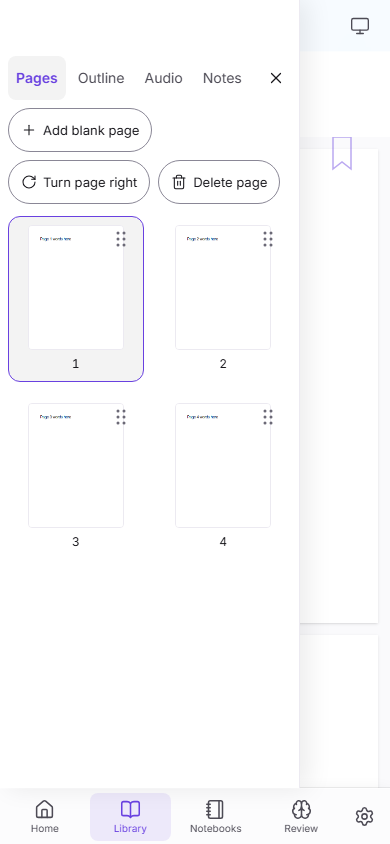
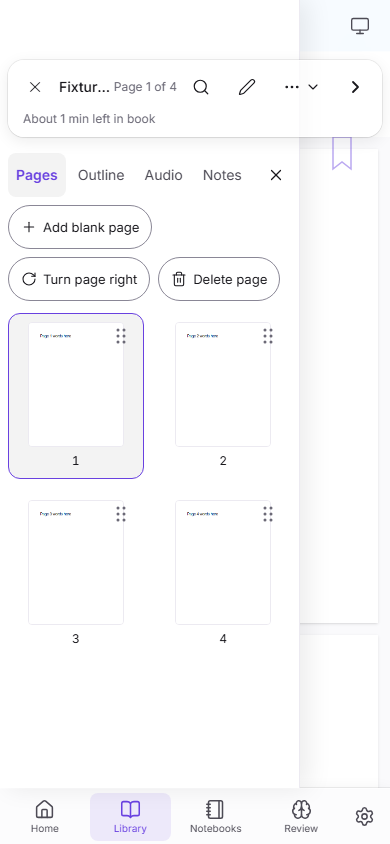
reader v2: on phone and iPad portrait the left panel now starts below the reader bar (--rv2-bar-bottom), replacing the hide-the-bar fix that broke Exit reading (RD-B02/B03); nothing covered or clipped at 390 and 820, e2e added; flag off unchanged

diff --git a/src/reader/v2/ReaderBars.tsx b/src/reader/v2/ReaderBars.tsx
@@ -95,8 +95,9 @@ export default function ReaderBars({
   }, [measure, rootRef])
 
   // A narrow screen lays the left panel (Pages / Outline / Audio tabs) over the
-  // reader's top. The bar steps aside while it is open, so it never covers the
-  // tab row or clips the first chip; it slides back when the panel closes.
+  // reader's top. The panel starts below the bar (it reads --rv2-bar-bottom),
+  // so the bar never covers its tab row or clips its first chip, and the
+  // ✕ Exit reading stays in reach. Without the bar the variable is gone.
   useEffect(() => {
     const check = () => {
       const panel = document.querySelector('[data-testid="left-panel"]')
@@ -126,6 +127,18 @@ export default function ReaderBars({
     ro.observe(el)
     return () => ro.disconnect()
   }, [stackShown, hidden])
+
+  const barBottom =
+    underPanel && stackShown && !away && !hidden ? box.top + stackH : 0
+  useLayoutEffect(() => {
+    const root = document.documentElement
+    if (barBottom > 0)
+      root.style.setProperty('--rv2-bar-bottom', `${barBottom + EDGE_GAP}px`)
+    else root.style.removeProperty('--rv2-bar-bottom')
+    return () => {
+      root.style.removeProperty('--rv2-bar-bottom')
+    }
+  }, [barBottom])
 
   if (hidden) return null
 
@@ -174,9 +187,9 @@ export default function ReaderBars({
         {stackShown && (
           <div
             ref={stack}
-            className={`rv2-stack ${away || underPanel ? 'rv2-stack--away' : ''}`}
+            className={`rv2-stack ${away ? 'rv2-stack--away' : ''}`}
             data-testid="rv2-stack"
-            inert={away || underPanel || undefined}
+            inert={away || undefined}
             style={{ left: box.left, top: box.top, width: box.width }}
           >
             {showReader && bar('reader', reader)}

diff --git a/e2e/readerV2Panel.spec.ts b/e2e/readerV2Panel.spec.ts
@@ -60,7 +60,17 @@ for (const [name, w, h] of SIZES) {
     await expect(stack).not.toHaveClass(/rv2-stack--away/)
     await page.getByTestId('panel-toggle').click()
     await expect(page.getByTestId('left-panel')).toBeVisible()
-    await expect(stack).toHaveClass(/rv2-stack--away/)
+    // The bar stays (✕ Exit reading in reach); the panel starts below it.
+    await expect(stack).not.toHaveClass(/rv2-stack--away/)
+    await expect(page.getByTestId('reader-close')).toBeVisible()
+    expect(await onTop(page.getByTestId('reader-close'))).toBe(true)
+    const barBox = await stack.boundingBox()
+    const tabBox = await page
+      .getByTestId('left-panel')
+      .getByRole('tab')
+      .first()
+      .boundingBox()
+    expect(barBox && tabBox && tabBox.y >= barBox.y + barBox.height).toBe(true)
     if (process.env.SHOTS) {
       await page.waitForTimeout(700)
       await page.screenshot({

diff --git a/src/app/panel/LeftPanel.tsx b/src/app/panel/LeftPanel.tsx
@@ -446,7 +446,7 @@ export function LeftPanel({
       className={
         docked
           ? 'flex w-[280px] shrink-0 flex-col border-e border-line bg-bg'
-          : 'fixed inset-y-0 start-0 z-[39] flex w-[300px] max-w-[88vw] flex-col border-e border-line bg-bg pt-[calc(env(safe-area-inset-top)+3rem)] shadow-[8px_0_24px_rgba(0,0,0,0.08)] phone:bottom-14'
+          : 'fixed inset-y-0 start-0 z-[39] flex w-[300px] max-w-[88vw] flex-col border-e border-line bg-bg pt-[max(calc(env(safe-area-inset-top)+3rem),var(--rv2-bar-bottom,0px))] shadow-[8px_0_24px_rgba(0,0,0,0.08)] phone:bottom-14'
       }
     >
       <div className="flex items-center gap-1 px-2 pt-2" role="tablist">
